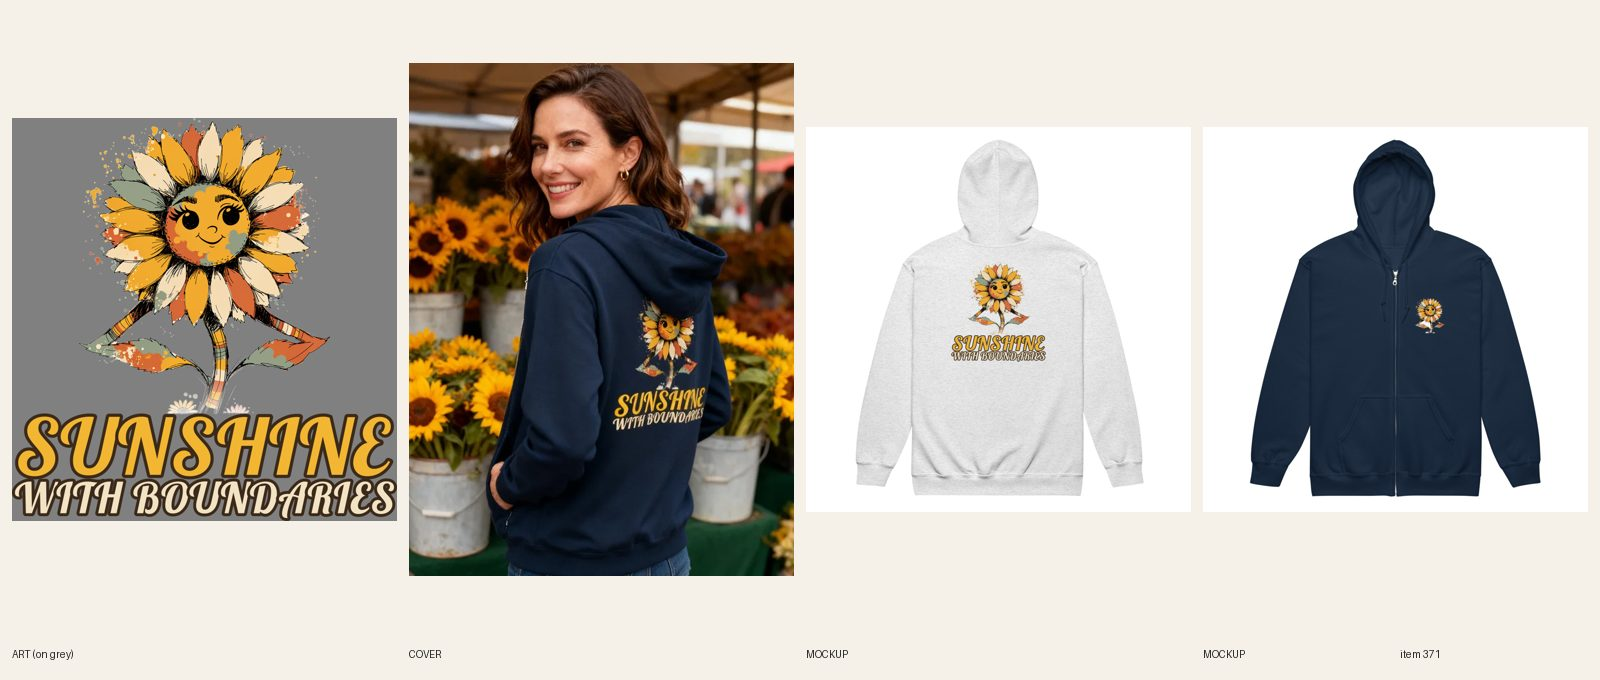
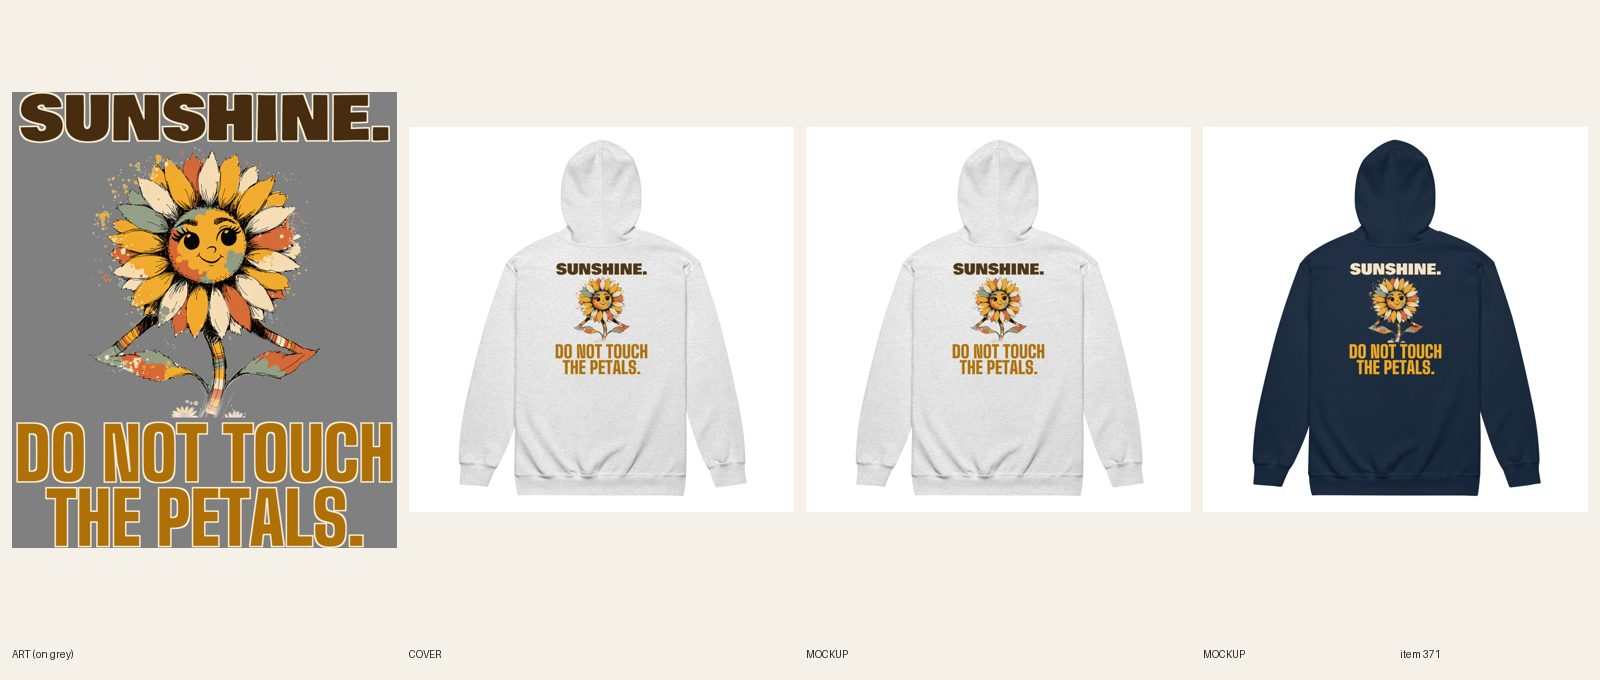
[C] review 371 (redo)
Claude-Session: https://claude.ai/code/session_01CCHcDj8LcJJ8qUPtKE3cvn

diff --git a/designs/c371/make.py b/designs/c371/make.py
@@ -1,0 +1,9 @@
+import sys; sys.path.insert(0,'.')
+from designs.lib import *
+im=Image.open('docs/print-files/371-sunshine-with-boundaries.png').convert('RGBA'); W=im.width
+art=im.crop((0,0,W,2610)); art=art.crop(art.getbbox()); art=art.resize((int(art.width*0.92),int(art.height*0.92)),Image.LANCZOS)
+BR=(72,44,16,255); GOLD=(240,176,36,255); DGOLD=(176,112,8,255)
+for tag,c1,k1,c2,k2,bg in (('ash',BR,CREAM,DGOLD,CREAM,(200,200,200,255)),('navy',CREAM,BR,GOLD,BR,(38,50,88,255))):
+    h1=line("SUNSHINE.",'bowlby',0.97,W,c1,k1,kw=29); pa,pb=line_same(["DO NOT TOUCH","THE PETALS."],'big',0.985,W,c2,k2,kw=27)
+    print(tag,'headline px',h1.width,'punch px',pa.width,pb.width,'heights',h1.height,pa.height,pb.height,'art',art.size)
+    out=lockup(art,W,[h1],[pa,pb],f'371-v3-petals-{tag}',{tag:bg}); print(out.size,out.height/out.width)

diff --git a/docs/pipeline/371-sunflower-zip-sunny-disposition-mostly.md b/docs/pipeline/371-sunflower-zip-sunny-disposition-mostly.md
@@ -1,4 +1,4 @@
-status: BUILDING [C] 2026-10-20 09:06
+status: REVIEW
 lane: C
 type: new
 id: 371
@@ -33,3 +33,4 @@ kd: 36
 - 2026-10-17 21:35 UTC builder [C]: REVIEW. Sync 14/14. Sheet docs/review/371.jpg. design-crops and variant-photo audit cover published products only: rerun when ACTIVE. Local cohesion audit not run (no spec file); copy checked by hand against the art. Cover: hood edge touches top petals.
 - 2026-10-17 22:39 UTC director: APPROVED, LIVE. ACTIVE + Online Store, Headless and Google & YouTube; audit --handle PASS (0 warn). Copy polished by the director first (R8: keyword counts, superlatives, false claims). Kept the built line SUNSHINE WITH BOUNDARIES (it passes; the brief's later rewrite is withdrawn).
 - 2026-10-18 17:22 UTC director: QUALITY RESET grade C (new line + type), REDO. The product stays ACTIVE (same handle, URL, title keyword). 1. Line (R3.12, quality-reset 'Lines'): "SUNSHINE / WITH BOUNDARIES": Stock self-care slogan, smirk not laugh. Write 5 candidates, keep the one a stranger laughs at in 3 seconds without backstory; kill lines that only describe the picture; if none of the 5 is funny, PARK it. 2. Quality reset type bar (docs/backlog/quality-reset.md, 'The new bar'): headline at least 90% of the art width, heavy, colors pulled from the art; second line at least 45% of the headline's height, never a thin script on a dark or mid garment; use the lettering as a shape (arch, stacked lockup, words breaking into the art), not a plain bar above and a script line below; no font used on more than 1 in 6 of the last 30 designs. 3. Keep the art if it carries the new line, else one new illustration (R4/R5). New print means a new cover per R6.10, copy line one rewritten for the new joke (R8.3), and a fresh review sheet (R7.7). While quality-reset.md says PAUSED, only lane A builds, and only the samples step 2 names.
+- 2026-10-20 09:16 UTC builder [C]: REDO new line + type (grade C; title card 7i done). 5 candidates, compared with Politely, No., Wildly Low Maintenance and Oops. Anyway.: "SUNSHINE. / DO NOT TOUCH THE PETALS." (kept: sweet on top, a warning underneath, the flower's arched eyebrows sell it), "SUNSHINE WITH BOUNDARIES" (old stock slogan), "PICK ME? I'M NOT A DAISY.", "BLOOMING. STILL NOT TALKING.", "GROW YOUR OWN SUNSHINE". Same sunflower art at 92% (small daisies at the stem end trimmed off). Measured ink widths (card 7h): headline SUNSHINE. 3291 px / punch DO NOT TOUCH 3336 px and THE PETALS. 2825 px (the first punch line is 101% of the headline; the two punch lines share one font size, 550 px tall each vs 453). First try set the punch on one line (too small at phone size), so I broke it in two. Bowlby One headline, Big Shoulders Display Black punch. Light-file (R5.3.8): Ash file 1090272572 (headline dark brown with a cream keyline, punch dark gold), Navy file 1090272641 (headline cream with a brown keyline, punch gold); docs/print-files/371-v3-petals-ash.png / -navy.png; back 3415 x 4049, BW 1650 BT 225 (about 1,960 px high), chest file 1088491938 unchanged, 14/14 relinked (verified on the API). Ash back mockup replaced in place; Navy back mockup added as a gallery image. Title set to "Women's Sunflower – Sunshine, Do Not Touch the Petals Zip Hoodie" (handle unchanged); copy, FAQ and SEO rewritten; handle in retired-covers.json. Plain product shot. fal $0.

diff --git a/docs/intake-log.md b/docs/intake-log.md
@@ -22,6 +22,7 @@ RUNNING director since 2026-10-20 07:17 UTC
 2026-10-20 07:44 UTC — [B] Builder run: REDO round 3 of #455 Unisex Hanukkah Lost My Gelt crewneck (dreidel face marks painted out, Navy file 1090236634 + Sport Grey file 1090236680, FW 1650 TOP 0, 12/12 relinked, 2 fronts replaced in place) and #469 Women's Christmas embroidered crewneck (new line BOOKED / THROUGH JANUARY., headline 2197 / punch 2197 px, Sand file 1090237592 + Navy file 1090237605, 12/12 synced, title/SEO/copy/alts updated). Both REVIEW. #498 left for director (R3.14 note). fal $0.
 2026-10-20 08:00 UTC — [E] Builder run: redid #608 Women's Pickleball tee (line + type: POLITE SMILE. / PERSONAL VENDETTA., same serene-lady art, Bevan, dark-ink file on 5 light colors, 30/30 synced). REVIEW. fal $0.
 RUNNING lane C since 2026-10-20 07:00 UTC
+2026-10-20 09:16 UTC — [C] Builder run: redid #371 Women's Sunflower zip hoodie (new line + type: SUNSHINE. / DO NOT TOUCH THE PETALS., headline 3291 px / punch 3336+2825 px, Bowlby + Big Shoulders, same sunflower art, Ash file 1090272572 + Navy file 1090272641, BW 1650 BT 225, 14/14 relinked, back mockups updated, title + copy + SEO updated). REVIEW. fal $0.
 2026-10-20 09:05 UTC — [C] Builder run: redid #364 Women's Soccer zip hoodie (new line + type: HALFTIME SNACKS: / MY ONLY JOB., headline 3264 px / punch 3302 px, Big Shoulders + Bowlby, same cooler art, Ash file 1090270165 + Navy file 1090270200, BW 1650 BT 225, 12/12 relinked, back mockups replaced, title + copy + SEO updated). REVIEW. fal $0.
 2026-10-20 09:01 UTC — [C] Builder run: redid #508 Women's National Park bison hoodie (new line + type: WE'RE NOT LOST. / THE TRAIL MOVED., headline 3042 px / punch 3102 px, Big Shoulders + Bowlby, same bison art with worn edges, Sand file 1090268565 + Navy file 1090268624, FW 1500 TOP 0, 12/12 relinked, 2 fronts replaced in place, title + copy + SEO updated). REVIEW. fal $0.
 2026-10-20 08:56 UTC — [C] Builder run: redid #398 Unisex Raccoon hoodie (new line + type: TABLE FOR ONE. / IT'S A DUMPSTER., headline 3287 px / punch 3334 px, Bowlby + Alfa, same raccoon art, Sand file 1090266764 + Navy file 1090266800, FW 1500 TOP 0, 12/12 relinked, 2 fronts replaced in place, title + copy + SEO updated). REVIEW. fal $0.
